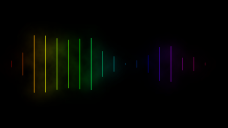
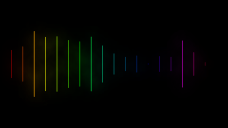
Added Fast Mode to MPl

diff --git a/music/script.js b/music/script.js
@@ -179,6 +179,7 @@ function loadFiles(event){
     
     getId("introduction").classList.add('disabled');
     getId("visualizer").classList.add('disabled');
+    getId("selectOverlay").classList.add('disabled');
     setVis("none");
     
     winsize = [window.innerWidth, window.innerHeight];
@@ -240,6 +241,7 @@ function loadWeirdFiles(event){
     
     getId("introduction").classList.add('disabled');
     getId("visualizer").classList.add('disabled');
+    getId("selectOverlay").classList.add('disabled');
     setVis("none");
     
     winsize = [window.innerWidth, window.innerHeight];
@@ -279,6 +281,7 @@ function loadMicrophone(event){
     
     getId("introduction").classList.add('disabled');
     getId("visualizer").classList.add('disabled');
+    getId("selectOverlay").classList.add('disabled');
     setVis("none");
     
     winsize = [window.innerWidth, window.innerHeight];
@@ -451,12 +454,43 @@ if(window.self !== window.top){
     });
 }
 
+var performanceMode = 0;
+function togglePerformance(){
+    if(performanceMode){
+        if(currVis !== "none"){
+            size[0] *= 2;
+            size[1] *= 2;
+            getId("visCanvas").width = size[0];
+            getId("visCanvas").height = size[1];
+            getId("smokeCanvas").width = size[0];
+            getId("smokeCanvas").height = size[1];
+        }
+    }else{
+        if(currVis !== "none"){
+            size[0] /= 2;
+            size[1] /= 2;
+            getId("visCanvas").width = size[0];
+            getId("visCanvas").height = size[1];
+            getId("smokeCanvas").width = size[0];
+            getId("smokeCanvas").height = size[1];
+        }
+    }
+    performanceMode = Math.abs(performanceMode - 1);
+    if(vis[currVis].sizechange){
+        vis[currVis].sizechange();
+    }
+}
+
 var winsize = [window.innerWidth, window.innerHeight];
 var size = [window.innerWidth - 8, window.innerHeight - 81];
 var fullscreen = 0;
 function toggleFullscreen(){
     if(fullscreen){
         size = [window.innerWidth - 8, window.innerHeight - 81];
+        if(performanceMode){
+            size[0] /= 2;
+            size[1] /= 2;
+        }
         getId("visualizer").style.border = "";
         getId("visualizer").style.bottom = "";
         getId("visualizer").style.left = "";
@@ -474,6 +508,10 @@ function toggleFullscreen(){
         }
     }else{
         size = [window.innerWidth, window.innerHeight];
+        if(performanceMode){
+            size[0] /= 2;
+            size[1] /= 2;
+        }
         getId("visualizer").style.border = "none";
         getId("visualizer").style.bottom = "0";
         getId("visualizer").style.left = "0";
@@ -516,6 +554,10 @@ function globalFrame(){
             size = [window.innerWidth, window.innerHeight];
         }else{
             size = [window.innerWidth - 8, window.innerHeight - 81];
+        }
+        if(performanceMode){
+            size[0] /= 2;
+            size[1] /= 2;
         }
         getId("visCanvas").width = size[0];
         getId("visCanvas").height = size[1];
@@ -1117,9 +1159,9 @@ var vis = {
         image: "visualizers/curvedLines_av.png",
         start: function(){
             canvas.lineCap = "round";
-            canvas.lineWidth = this.lineWidth;
+            canvas.lineWidth = this.lineWidth - (performanceMode * 0.5 * this.lineWidth);
             smoke.lineCap = "round";
-            smoke.lineWidth = this.lineWidth;
+            smoke.lineWidth = this.lineWidth - (performanceMode * 0.5 * this.lineWidth);
         },
         frame: function(){
             canvas.clearRect(0, 0, size[0], size[1]);
@@ -1235,9 +1277,9 @@ var vis = {
         },
         sizechange: function(){
             canvas.lineCap = "round";
-            canvas.lineWidth = this.lineWidth;
+            canvas.lineWidth = this.lineWidth - (performanceMode * 0.5 * this.lineWidth);
             smoke.lineCap = "round";
-            smoke.lineWidth = this.lineWidth;
+            smoke.lineWidth = this.lineWidth - (performanceMode * 0.5 * this.lineWidth);
         },
         lineWidth: 6,
         lineCount: 9,
@@ -1280,9 +1322,9 @@ var vis = {
         image: "visualizers/centeredLines_av.png",
         start: function(){
             canvas.lineCap = "round";
-            canvas.lineWidth = this.lineWidth;
+            canvas.lineWidth = this.lineWidth - (performanceMode * 0.5 * this.lineWidth);
             smoke.lineCap = "round";
-            smoke.lineWidth = this.lineWidth;
+            smoke.lineWidth = this.lineWidth - (performanceMode * 0.5 * this.lineWidth);
         },
         frame: function(){
             canvas.clearRect(0, 0, size[0], size[1]);
@@ -1339,9 +1381,9 @@ var vis = {
         },
         sizechange: function(){
             canvas.lineCap = "round";
-            canvas.lineWidth = this.lineWidth;
+            canvas.lineWidth = this.lineWidth - (performanceMode * 0.5 * this.lineWidth);
             smoke.lineCap = "round";
-            smoke.lineWidth = this.lineWidth;
+            smoke.lineWidth = this.lineWidth - (performanceMode * 0.5 * this.lineWidth);
         },
         lineWidth: 6,
         lineCount: 18,
@@ -1351,8 +1393,8 @@ var vis = {
         name: "Cave Lines",
         image: "visualizers/caveLines_av.png",
         start: function(){
-            canvas.lineWidth = this.lineWidth;
-            smoke.lineWidth = this.lineWidth;
+            canvas.lineWidth = this.lineWidth - (performanceMode * 0.5 * this.lineWidth);
+            smoke.lineWidth = this.lineWidth - (performanceMode * 0.5 * this.lineWidth);
         },
         frame: function(){
             canvas.clearRect(0, 0, size[0], size[1]);
@@ -1414,8 +1456,8 @@ var vis = {
             smoke.lineWidth = 1;
         },
         sizechange: function(){
-            canvas.lineWidth = this.lineWidth;
-            smoke.lineWidth = this.lineWidth;
+            canvas.lineWidth = this.lineWidth - (performanceMode * 0.5 * this.lineWidth);
+            smoke.lineWidth = this.lineWidth - (performanceMode * 0.5 * this.lineWidth);
         },
         lineWidth: 6,
         lineCount: 18,
@@ -1706,9 +1748,9 @@ var vis = {
         image: "visualizers/circleLines.png",
         start: function(){
             canvas.lineCap = "round";
-            canvas.lineWidth = this.lineWidth;
+            canvas.lineWidth = this.lineWidth - (performanceMode * 0.5 * this.lineWidth);
             smoke.lineCap = "round";
-            smoke.lineWidth = this.lineWidth;
+            smoke.lineWidth = this.lineWidth - (performanceMode * 0.5 * this.lineWidth);
         },
         frame: function(){
             canvas.clearRect(0, 0, size[0], size[1]);
@@ -1785,9 +1827,9 @@ var vis = {
         },
         sizechange: function(){
             canvas.lineCap = "round";
-            canvas.lineWidth = this.lineWidth;
+            canvas.lineWidth = this.lineWidth - (performanceMode * 0.5 * this.lineWidth);
             smoke.lineCap = "round";
-            smoke.lineWidth = this.lineWidth;
+            smoke.lineWidth = this.lineWidth - (performanceMode * 0.5 * this.lineWidth);
         },
         lineCount: 36,
         lineWidth: 6,
@@ -2832,7 +2874,11 @@ function resizeSmoke(){
     smokeElement.width = size[0];
     smokeElement.height = size[1];
     if(smokeEnabled){
-        smokeElement.style.filter = "blur(" + Math.round((size[0] + size[1]) / 50) + "px) brightness(3)";
+        if(performanceMode){
+            smokeElement.style.filter = "blur(" + Math.round((size[0] * 2 + size[1] * 2) / 50) + "px) brightness(3)";
+        }else{
+            smokeElement.style.filter = "blur(" + Math.round((size[0] + size[1]) / 50) + "px) brightness(3)";
+        }
     }
 }
 function updateSmoke(leftpos, toppos, shortwidth, shortheight){

diff --git a/scriptBeta.js b/scriptBeta.js
@@ -9535,7 +9535,7 @@ c(function(){
             "07/18/2019: B1.0.2.0\n + New custom menu with graphics for selecting visualizers and colors in Music Player.\n + Added static gradient color themes to Music Player.\n + Added Queen color theme to Music Player.\n + Added High Frequency Range to Music Player; requires devconsole to activate the flag (highFreqRange).\n\n" +
             "07/24/2019: B1.0.2.1\n : Fixed issue where aOS would incorrectly state that there was a failure setting a new password.\n : Fixed aOS ignoring correct passwords if their internet is too fast for itself.\n\n" +
             "07/27/2019: B1.0.3.0\n + Music Player has four new visualizers; Curved Lines, Centered Lines, Cave Lines, and Circle Lines. Thanks &Scaron;tefan Schindler for the designs.\n + Music Player has three new color schemes; Rainbow, Rainbow Active, and Pride Blocky.\n : Music Player's Pride color schemes now use HSL instead of RGB, and look much better.\n : In Music Player, fixed Monstercat's bars stretching half a pixel through its floor.\n : Music Player now alerts visualizers when smoke is toggled to prevent canvases forgetting their settings.\n\n" +
-            "07/29/2019: B1.0.3.1\n : Fixed login issues related to login tokens.\n : Fixed swapping between aOS instances.\n : Fixed smoke being too intense in Lines-derived visualizers in Music Player.\n : Fixed missing images in music player.",
+            "07/29/2019: B1.0.3.1\n + Added Fast Mode to Music Player, reduces resolution to increase FPS.\n : Fixed login issues related to login tokens.\n : Fixed swapping between aOS instances.\n : Fixed smoke being too intense in Lines-derived visualizers in Music Player.\n : Fixed missing images in music player.\n : Fixed Music Player visualizer menu being open when using non-standard loading methods.",
             oldVersions: "aOS has undergone many stages of development. Here\'s all older versions I've been able to recover.\nV0.9     https://aaron-os-mineandcraft12.c9.io/_old_index.php\nA1.2.5   https://aaron-os-mineandcraft12.c9.io/_backup/index.1.php\nA1.2.6   http://aos.epizy.com/aos.php\nA1.2.9.1 https://aaron-os-mineandcraft12.c9.io/_backup/index9_25_16.php\nA1.4     https://aaron-os-mineandcraft12.c9.io/_backup/"
     }; // changelog: (using this comment to make changelog easier for me to find)
     window.aOSversion = 'B1.0.3.1 (07/29/2019) r2';

diff --git a/music/index.php b/music/index.php
@@ -29,13 +29,14 @@
                 <button onclick="back()">Back</button>
                 <button onclick="next()">Next</button> |
                 <button onclick="shuffle()">Shuffle</button> |
-                <button onclick="refresh()">New Songs</button>
+                <button onclick="refresh()">New Songs</button> |
+                Delay: <input style="width: 50px" type="number" id="delayinput" min="0" max="1" value="0.25" step="0.01" onchange="setDelay(this.value)">
                 <br>
                 Visuals: <select id="visfield" onchange="setVis(this.value)" onmousedown="requestAnimationFrame(()=>{this.blur()});" onclick="openVisualizerMenu();"></select>
                 <button onclick="toggleSmoke()">Smoke</button> |
                 Colors: <select id="colorfield" onchange="setColor(this.value)" onmousedown="requestAnimationFrame(()=>{this.blur()});" onclick="openColorMenu();"></select> |
-                Delay: <input style="width: 50px" type="number" id="delayinput" min="0" max="1" value="0.25" step="0.01" onchange="setDelay(this.value)"> |
-                <button onclick="toggleFPS()">FPS</button>
+                <button onclick="toggleFPS()">FPS</button> |
+                <button onclick="togglePerformance()">Fast Mode</button>
             </div>
             <div id="progressContainer" class="disabled" onclick="setProgress(event)"><div id="progress"></div></div>
             <div id="songList" class="disabled"></div>
